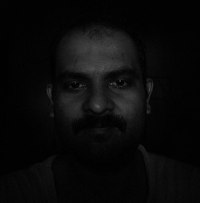
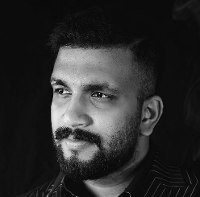
project urls

diff --git a/index.html b/index.html
@@ -6,6 +6,8 @@
         <link rel="stylesheet" href="./dark_portfolio_files/w3.css">
         <link rel="stylesheet" href="./dark_portfolio_files/css">
         <link rel="stylesheet" href="./dark_portfolio_files/font-awesome.min.css">
+        <script src="//code.angularjs.org/snapshot/angular.min.js"></script>
+        <script src="//code.angularjs.org/snapshot/angular-sanitize.js"></script>
         <style>
             body, h1,h2,h3,h4,h5,h6 {
                 font-family: "Montserrat", sans-serif
@@ -30,6 +32,7 @@
             }
         </style>
         <script >
+            var projects;
             function download(fileName) {
 //                alert("download " + fileName);
 
@@ -61,15 +64,56 @@
                 };
                 req.send();
             }
-            ;
+            function init() {
+
+            }
+
+            var app = angular.module('app1', ['ngSanitize']);
+            app.controller('ctrl1', ($scope) => {
+//                $scope.projects = projects;
+                const request = new XMLHttpRequest();
+                request.open("GET", "projects.json", false); // `false` makes the request synchronous
+                request.send(null);
+
+                if (request.status === 200) {
+                    console.log(request.responseText);
+                    $scope.projects = JSON.parse(request.responseText);
+                }
+
+                $scope.call_href = "tel:+971501272181";
+                $scope.locate_href = "https://www.google.com/maps/place/THE+FILIPINO+DENTAL/@25.2681686,55.3181125,102m/data=!3m1!1e3!4m6!3m5!1s0x3e5f5d768afb39ff:0x963ba1dbba57f870!8m2!3d25.2681327!4d55.3180453!16s%2Fg%2F11vc9hb88k!5m1!1e4?entry=ttu";
+                $scope.whatsapp_href = "https://wa.me/971501272181?text=Hello, THE FILIPINO DENTAL Clinic. I%20would%20like%20to%20book%20an%20appointment.";
+
+                $scope.phoneBlock = "<a class='phone' href='tel:+971501272181'> \n\
+                                        <span class='material-icons' >call</span>\n\
+                                        Call Now\n\
+                                </a>";
+
+                $scope.locateBlock = "<a  class='phone' href='https://www.google.com/maps/place/THE+FILIPINO+DENTAL/@25.2681686,55.3181125,102m/data=!3m1!1e3!4m6!3m5!1s0x3e5f5d768afb39ff:0x963ba1dbba57f870!8m2!3d25.2681327!4d55.3180453!16s%2Fg%2F11vc9hb88k!5m1!1e4?entry=ttu' >\n\
+                                            <span class='material-icons' >room</span>\n\
+                                            Locate  \n\
+                                   </a> ";
+
+                $scope.whatsappBlock = '<a href="https://wa.me/971501272181?text=Hello, THE FILIPINO DENTAL Clinic. I%20would%20like%20to%20book%20an%20appointment."  class="phone"> \n\
+                                        <img src="./images/WhatsApp.svg" alt="whatsapp" width="30px" /> \n\
+                                            WhatsApp \n\
+                                    </a> ';
+            });
+
+
+
+
+
         </script>
     </head>
-    <body class="w3-black">
+
+    <body onload="init()" ng-app="app1" ng-controller="ctrl1" class="w3-black">
+
 
         <!-- Icon Bar (Sidebar - hidden on small screens) -->
         <nav class="w3-sidebar w3-bar-block w3-small w3-hide-small w3-center">
             <!-- Avatar image in top left corner -->
-            <img src="./dark_portfolio_files/avatar_ayush.jpg" style="width:100%" alt="">
+            <img src="./dark_portfolio_files/user_avatar.jpg" style="width:100%" alt="">
             <a href="#" class="w3-bar-item w3-button w3-padding-large w3-black">
                 <i class="fa fa-home w3-xxlarge"></i>
                 <p>HOME</p>
@@ -232,17 +276,18 @@
                 <h2 class="w3-text-light-grey">My Projects</h2>
                 <hr style="width:200px" class="w3-opacity">
 
-                <div class="w3-section">
-                    <p><i class="fa fa-archive fa-fw w3-text-white w3-xxlarge w3-margin-right"></i> 
-                        p1
+
+                <div ng-repeat="project in projects" class="w3-section">
+                    <p>
+                        <a href="{{project.url}}">
+                        <i class="fa fa-archive fa-fw w3-text-white w3-xxlarge w3-margin-right"></i> 
+                        {{project.url}}
+                        </a>
                     </p>
-                    <p><i class="fa fa-archive fa-fw w3-text-white w3-xxlarge w3-margin-right"></i> 
-                        p2
-                    </p>
-                    <p><i class="fa fa-archive fa-fw w3-text-white w3-xxlarge w3-margin-right"> </i> 
-                        p3
-                    </p>
-                </div><br>
+
+                </div>
+
+                <br>
 
                 <!-- End projects Section -->
             </div>
